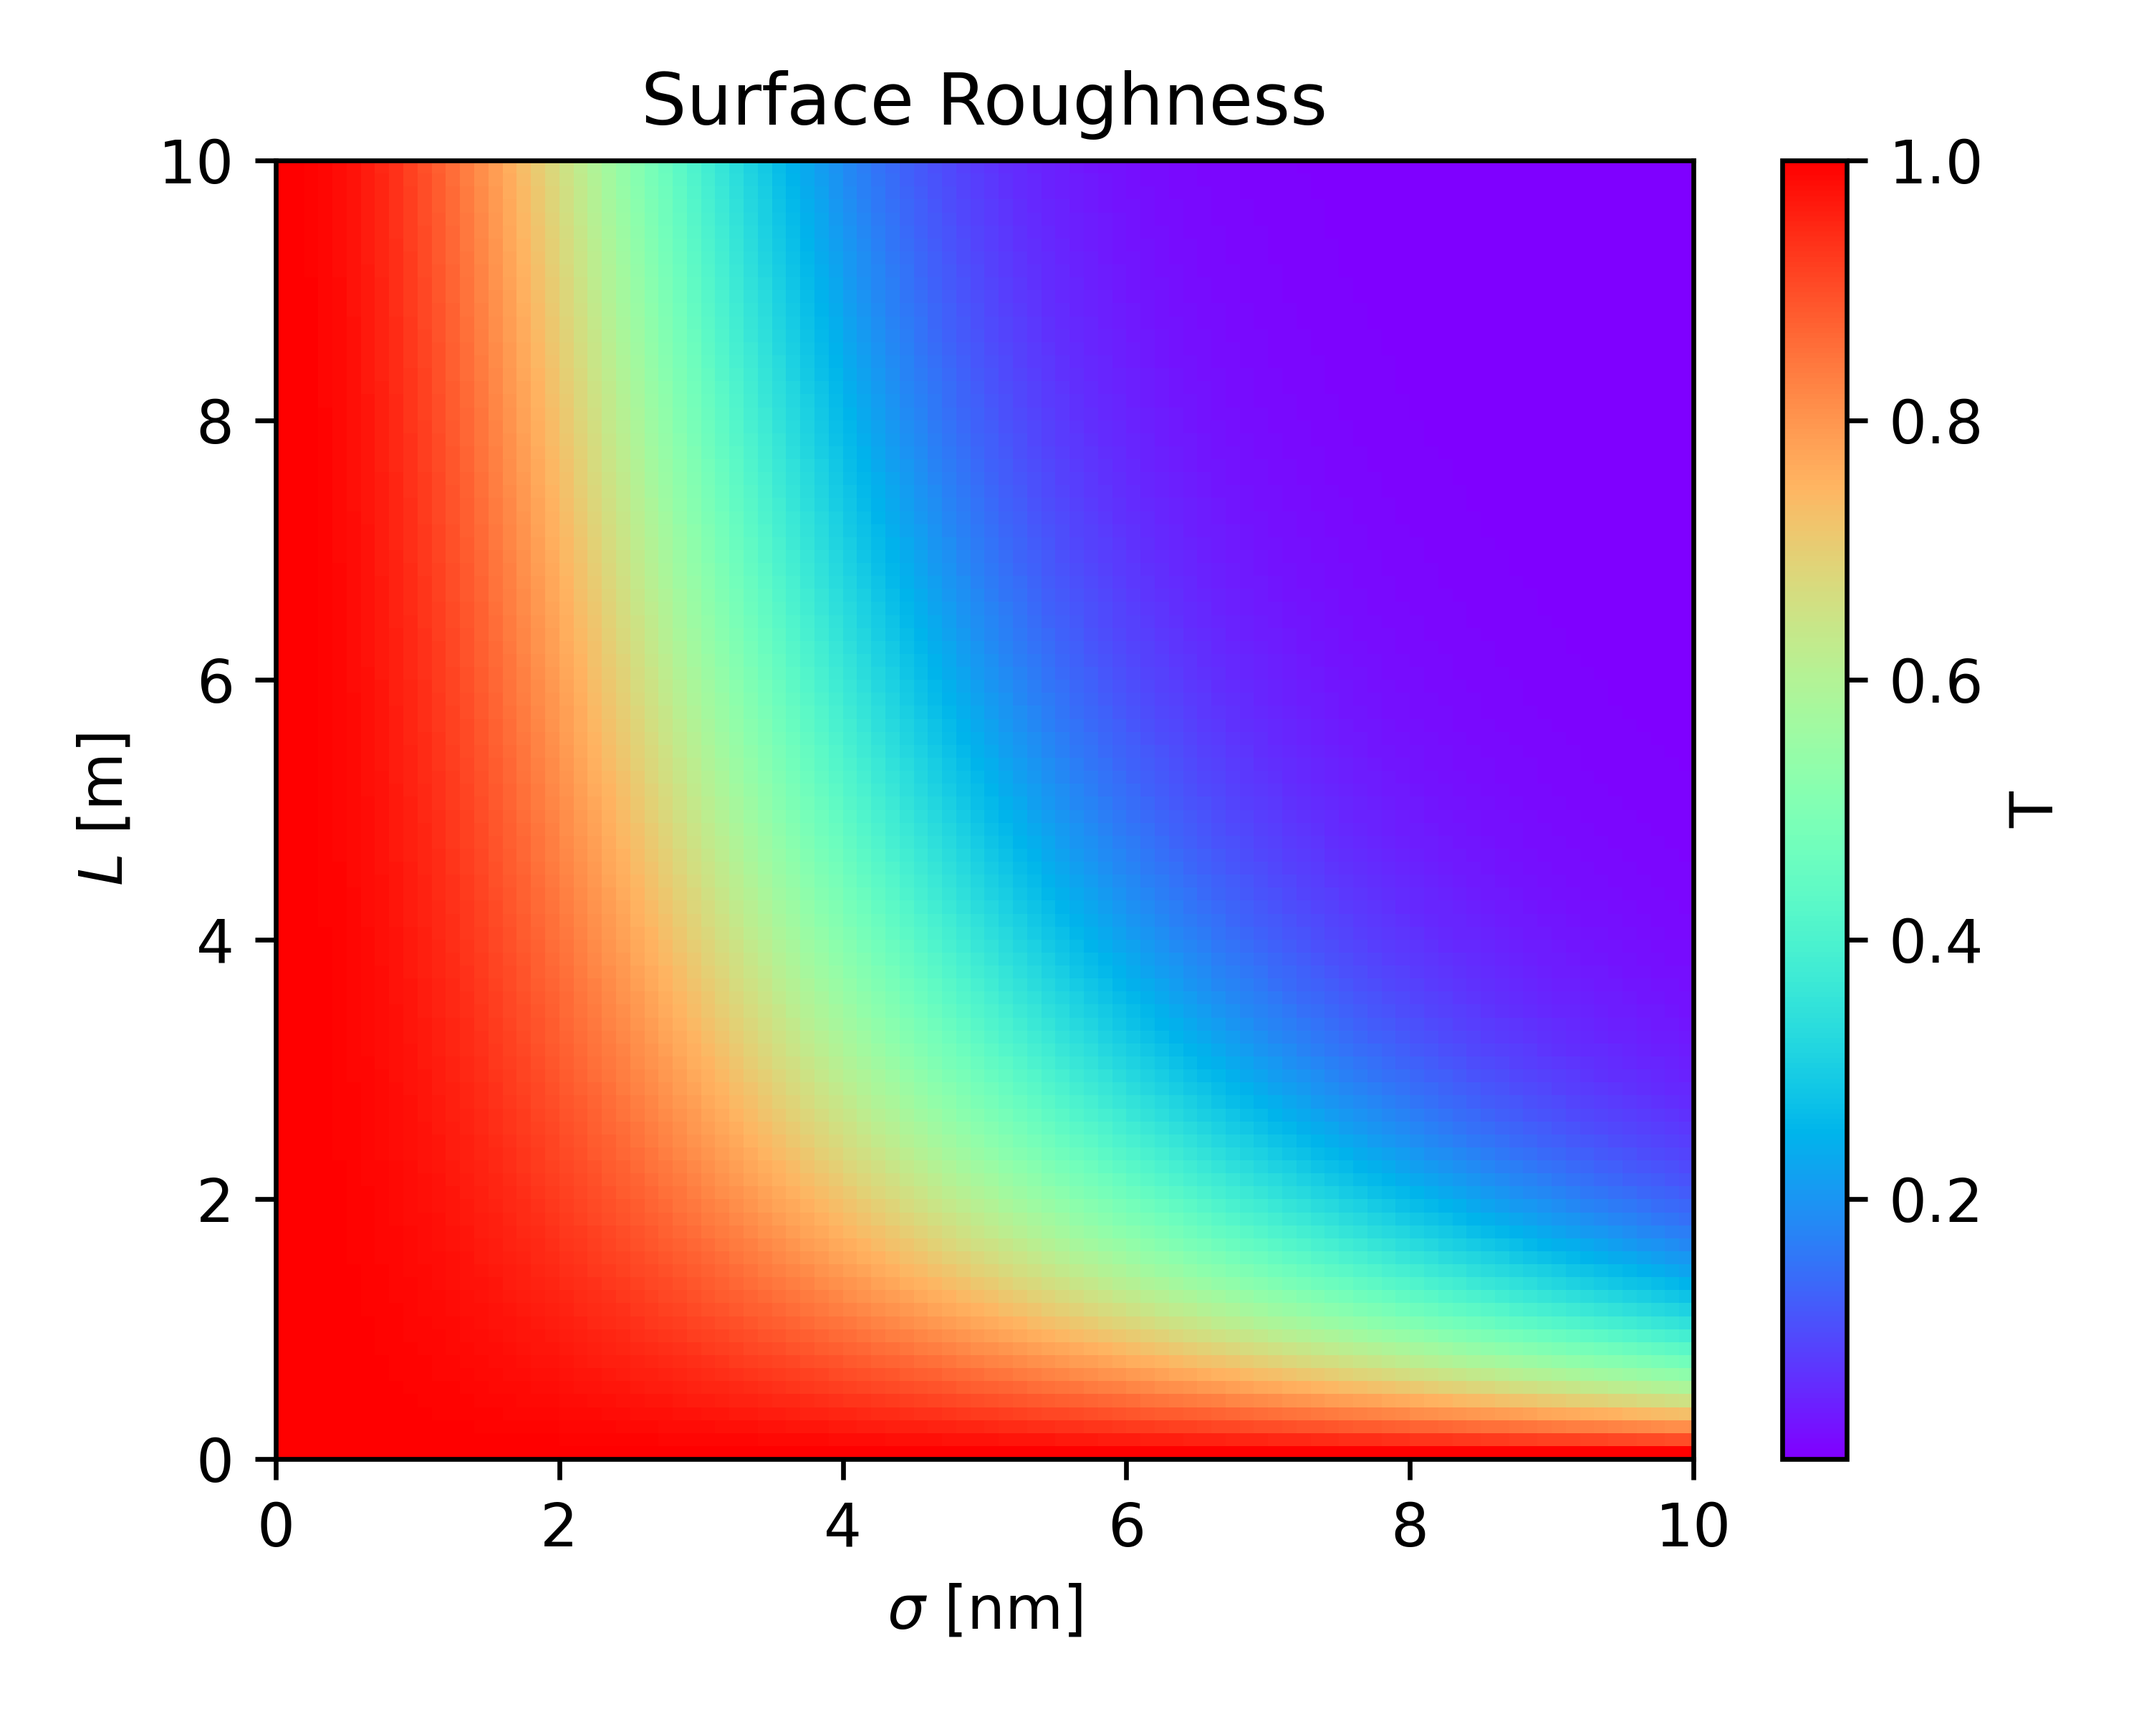
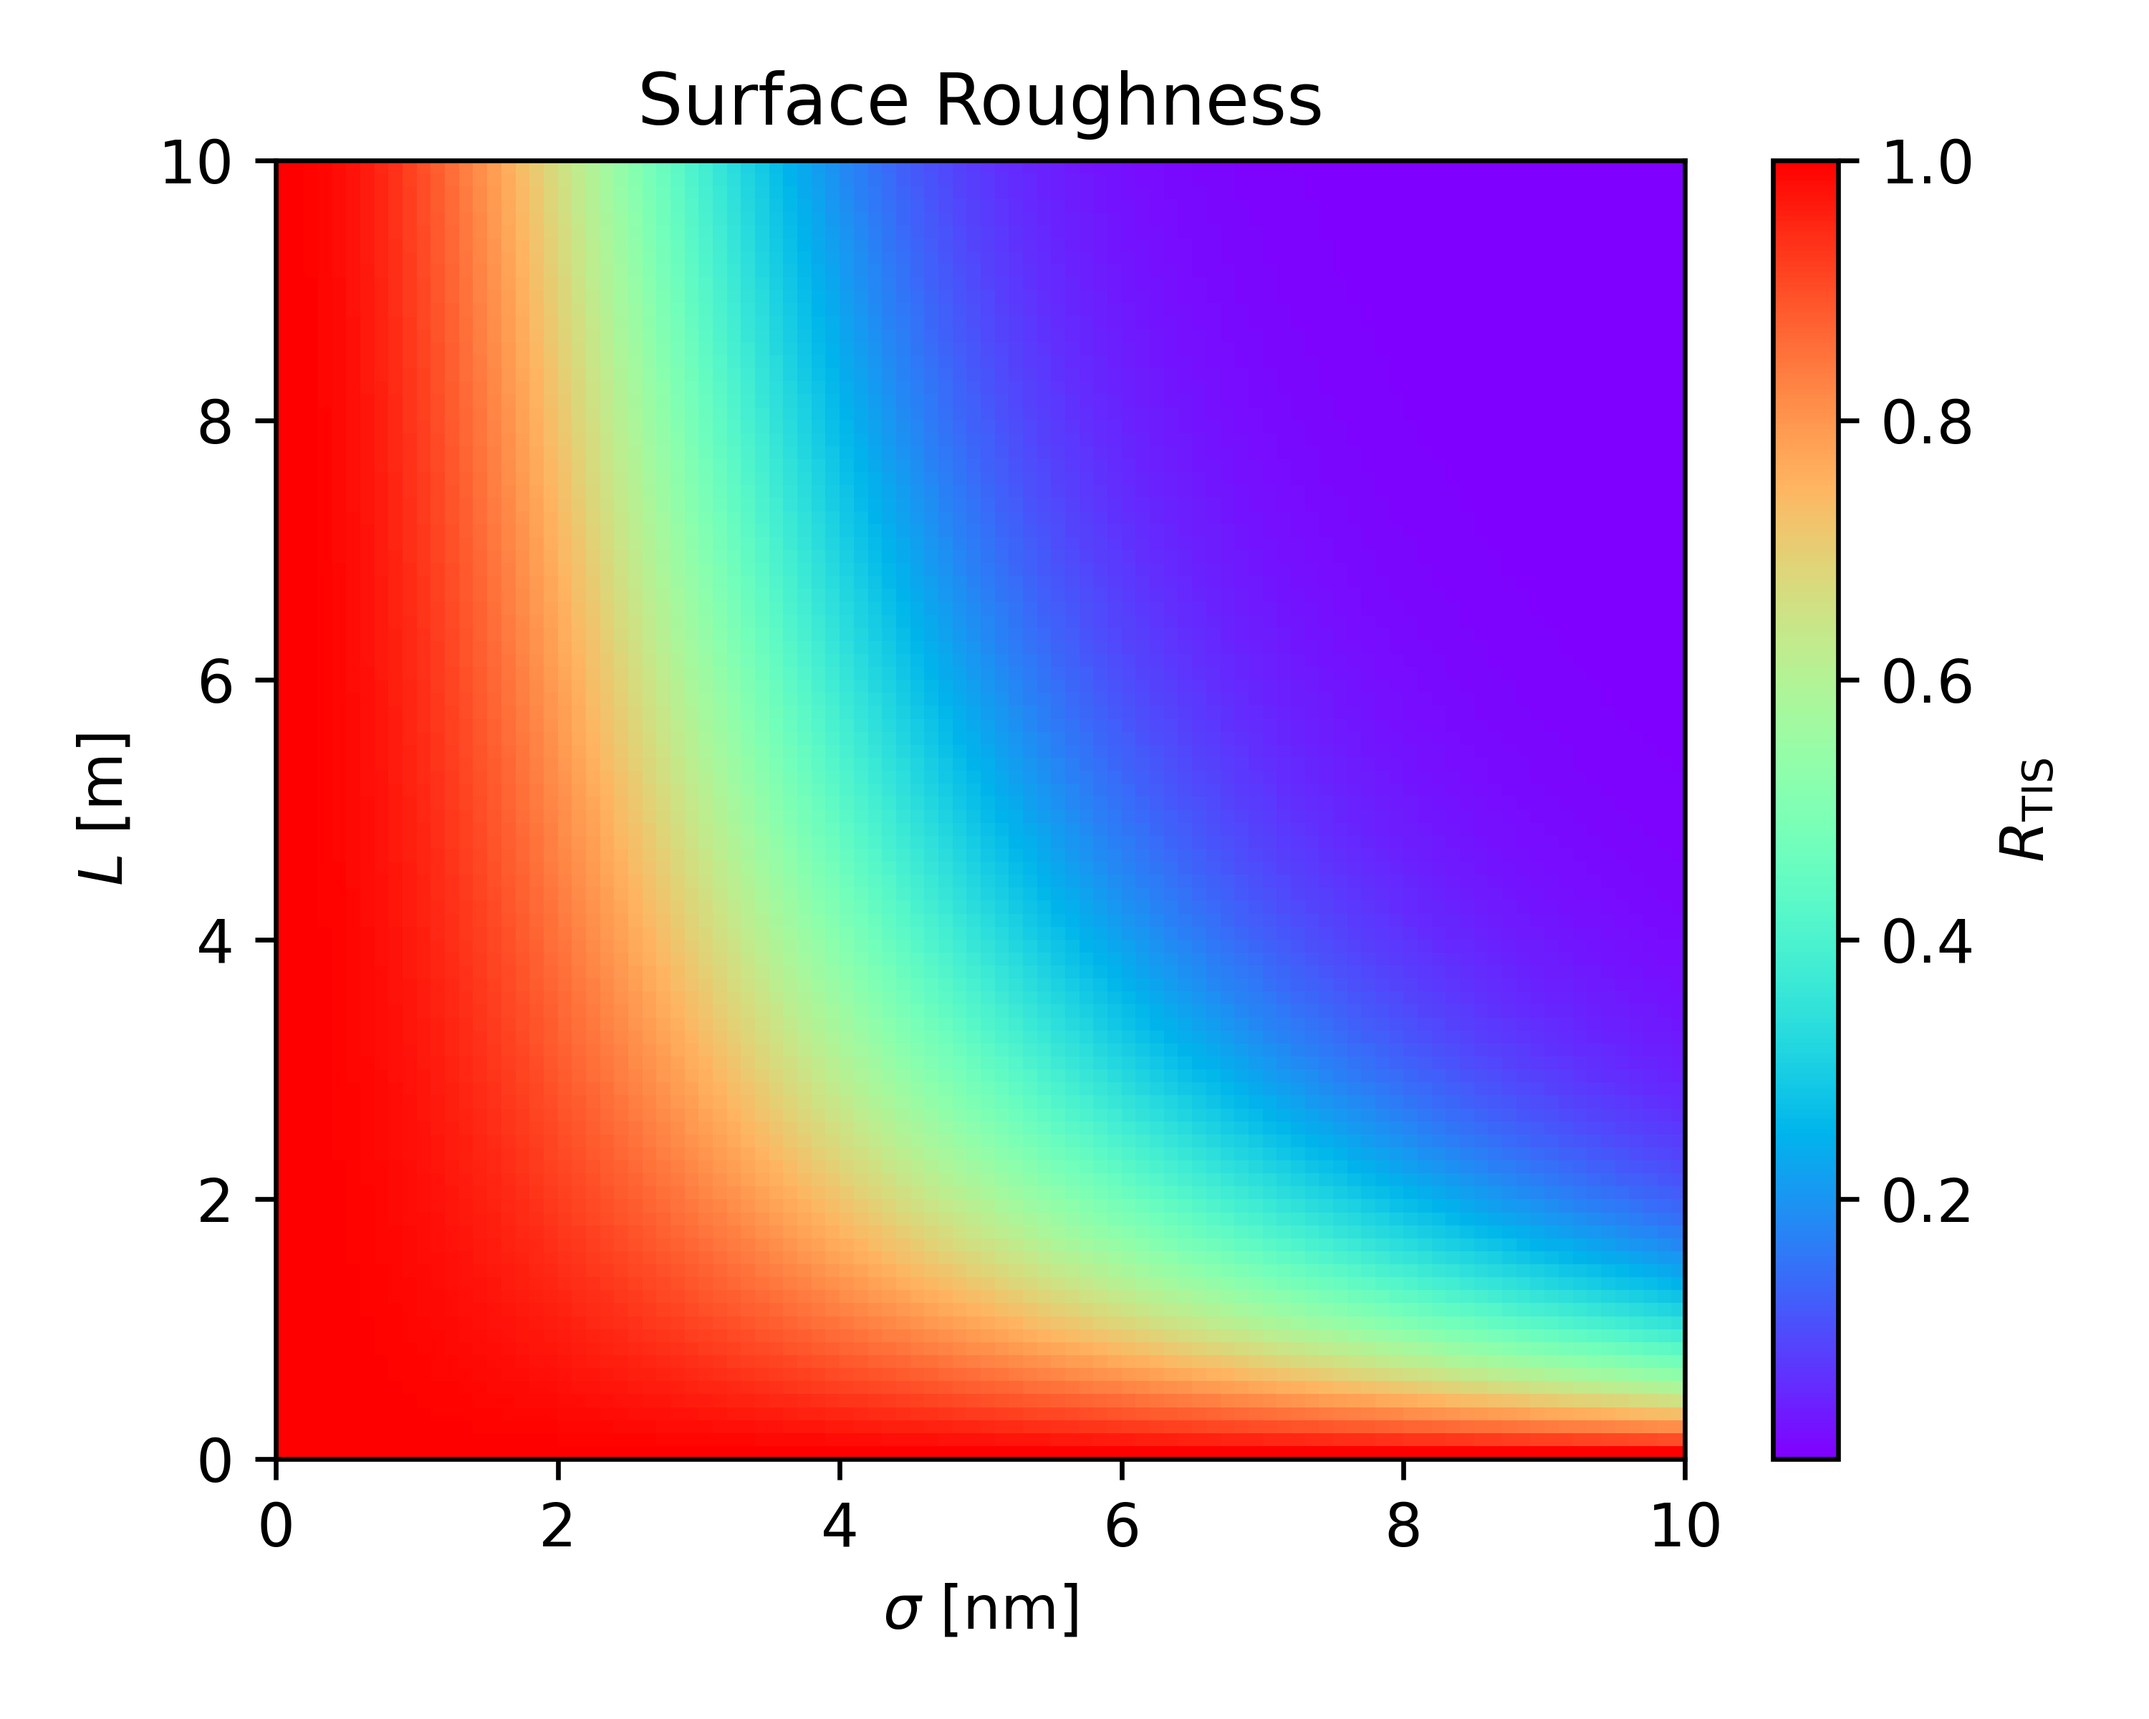
Updating surface roughness plot

diff --git a/roughness.py b/roughness.py
@@ -30,7 +30,7 @@ plt.figure(figsize=(5, 4))
 im = plt.imshow(transmission, extent=[roughness[0]*1e9, roughness[-1]*1e9, path_length[0], path_length[-1]],
                 origin='lower', aspect='auto', cmap='rainbow')
 cbar = plt.colorbar(im)
-cbar.set_label('T')
+cbar.set_label('$R_\\mathrm{TIS}$')
 
 plt.xlabel('$\sigma$ [nm]')
 plt.ylabel('$L$ [m]')

diff --git a/main.py b/main.py
@@ -4,7 +4,7 @@
 #import wavelength
 #import rindex
 #import bulk_scattering
-#import roughness
-import pixel
+import roughness
+#import pixel
 
 print('finished...')
